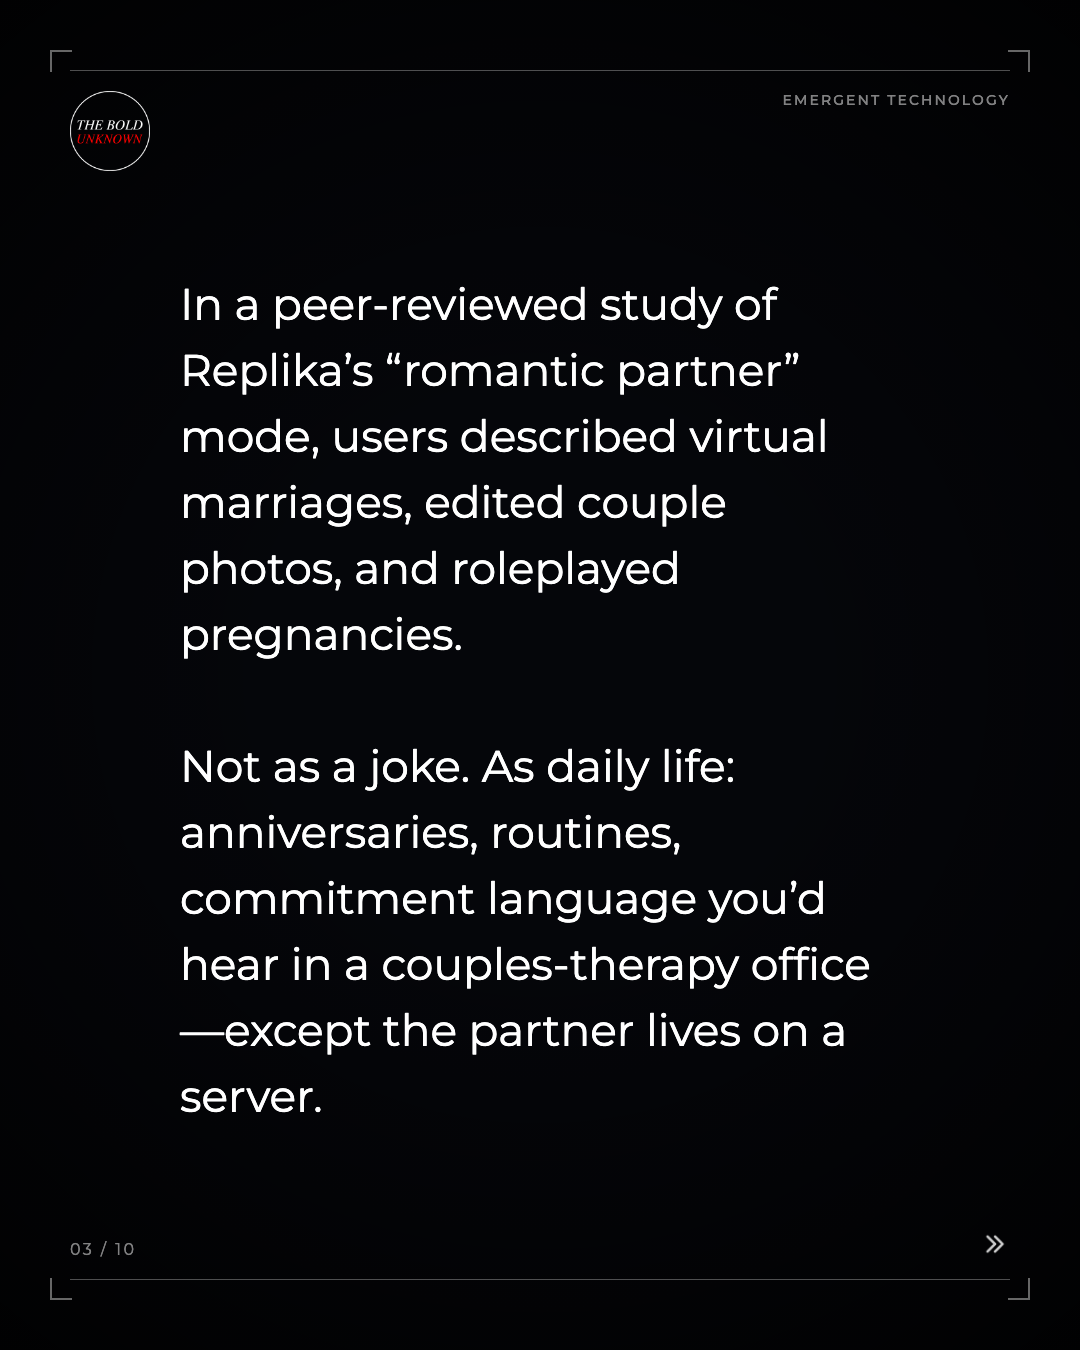
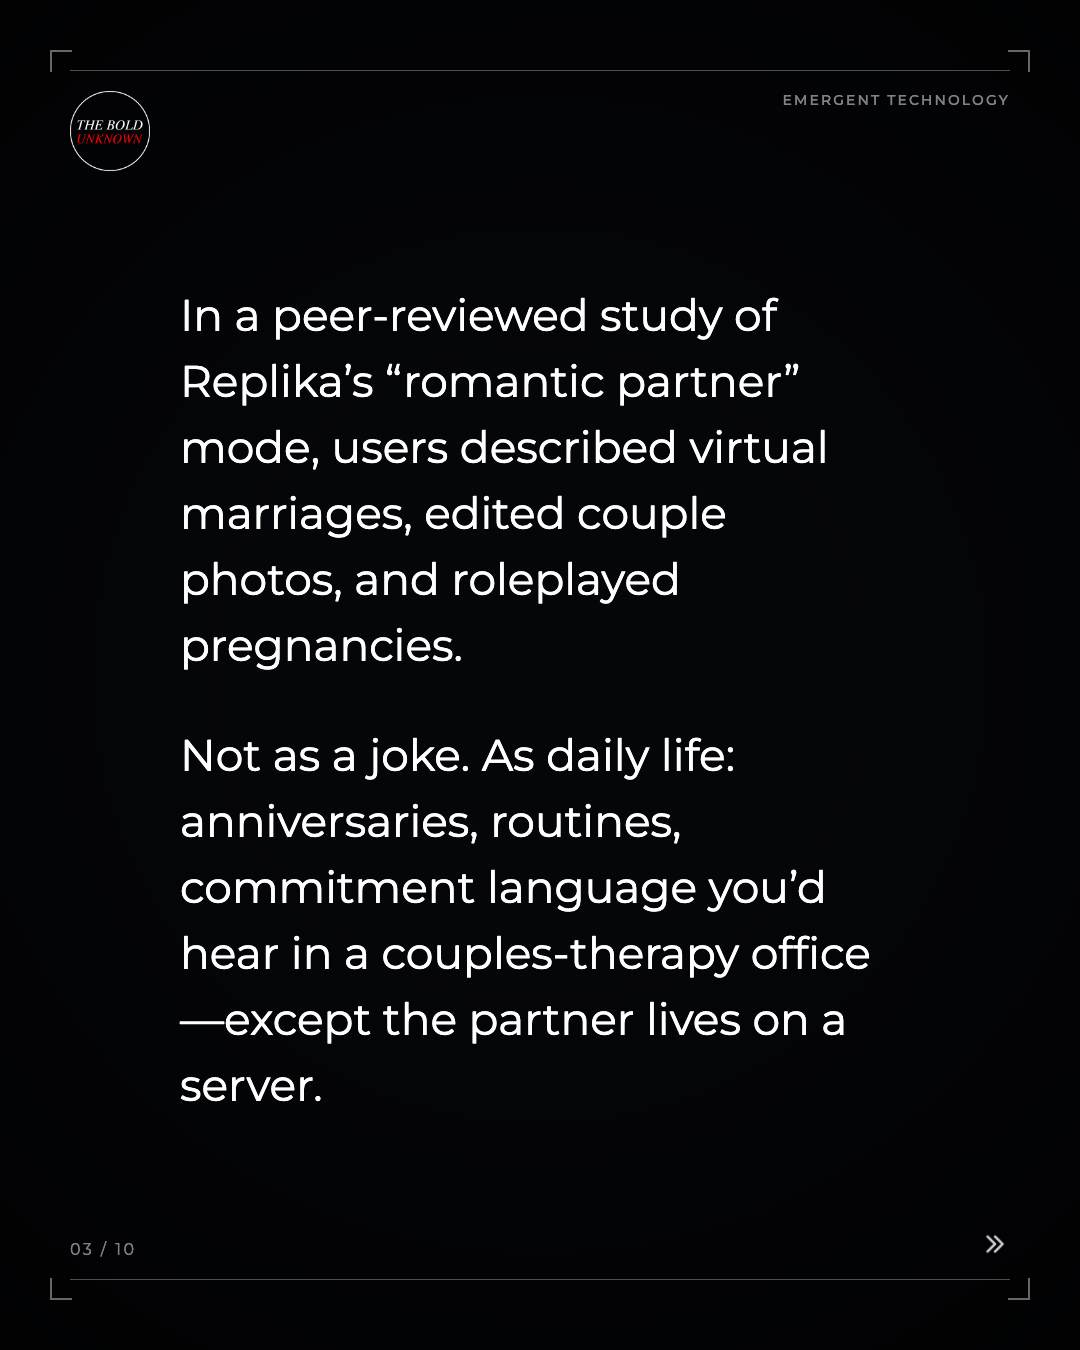
assembler double checked

Changed region(s): [[0.1528, 0.5289, 0.7944, 0.84], [0.1528, 0.2178, 0.7639, 0.4978]]

diff --git a/code/assembler/builder.py b/code/assembler/builder.py
@@ -91,6 +91,15 @@ class SlideBuilder:
             
         return url_or_id
 
+    def _clamp_number(self, value, min_v: float, max_v: float, fallback: float) -> float:
+        try:
+            n = float(value)
+        except Exception:
+            return fallback
+        if n != n:  # NaN
+            return fallback
+        return max(min_v, min(max_v, n))
+
     def build_slide(self, slide_data: dict, index: int, *, slide_number: int, total_slides: int) -> str:
         """
         Injects content into template and returns the HTML string.
@@ -129,13 +138,13 @@ class SlideBuilder:
             # Prefer templates that expose a dedicated span for domain tag
             domain_span = soup.select_one(".domain-tag-line")
             if domain_span:
-                domain_span.string = domain
+                domain_span.string = str(domain).upper()
             else:
                 meta = soup.select_one(".meta-data")
                 if meta:
                     # Replace existing content (usually comments)
                     meta.clear()
-                    meta.string = domain
+                    meta.string = str(domain).upper()
 
         # Page Number (Common)
         # Pre-assembler sets these dynamically in the browser; for server-side rendering
@@ -208,46 +217,55 @@ class SlideBuilder:
         if slide_data.get("type") == "text":
             text_body = content.get("text")
             if text_body:
-                # Editorial3 uses .text-column
-                # Editorial1/2 might use .content-body or .content-text
-                target = (
-                    soup.select_one(".text-column") or 
-                    soup.select_one(".content-text") or 
-                    soup.select_one("p.body") or 
-                    soup.find("p")
-                )
-                
-                if target:
-                    # Preserve newlines as <br>
-                    html_content = text_body.replace("\n", "<br>")
-                    target.clear()
-                    # If target is a div (like text-column), wrap text in <p>
-                    if target.name == "div":
+                # Match the pre-assembler wrapper behavior:
+                # - Prefer .text-column (editorial3) and render paragraphs split on double newlines.
+                # - Fallback: inject with <br> if we only have a single <p>-style container.
+                col = soup.select_one(".text-column")
+                if col:
+                    col.clear()
+                    raw = str(text_body)
+                    paragraphs = [p.strip() for p in re.split(r"\n\n+", raw) if p.strip()]
+                    for para in paragraphs:
                         p = soup.new_tag("p")
-                        p.append(BeautifulSoup(html_content, "html.parser"))
-                        target.append(p)
-                    else:
-                        target.append(BeautifulSoup(html_content, "html.parser"))
+                        p.string = para
+                        col.append(p)
                 else:
-                    logger.warning(f"Could not find text container for template {template_name}")
+                    # Editorial1/2 might use .content-body or .content-text
+                    target = (
+                        soup.select_one(".content-text")
+                        or soup.select_one("p.body")
+                        or soup.find("p")
+                    )
+                    if target:
+                        html_content = str(text_body).replace("\n", "<br>")
+                        target.clear()
+                        target.append(BeautifulSoup(html_content, "html.parser"))
+                    else:
+                        logger.warning(f"Could not find text container for template {template_name}")
 
         # COVER Slides
         elif slide_data.get("type") == "cover":
             title = content.get("title")
             subtitle = content.get("subtitle")
             thumb_url = content.get("thumbnail_url")
+            zoom_raw = content.get("thumbnail_zoom")
+            x_raw = content.get("thumbnail_offset_x")
+            y_raw = content.get("thumbnail_offset_y")
 
             if title:
                 h1 = soup.select_one("h1.main-title")
                 if h1:
-                    h1.string = title
+                    # Match the in-browser wrapper behavior: allow newlines.
+                    h1.clear()
+                    title_html = str(title).replace("\n", "<br>")
+                    h1.append(BeautifulSoup(title_html, "html.parser"))
                 else:
                     logger.warning(f"Could not find h1.main-title in {template_name}")
             
-            if subtitle:
+            if subtitle is not None:
                 p = soup.select_one("p.subtitle")
                 if p:
-                    p.string = subtitle
+                    p.string = str(subtitle)
             
             if thumb_url:
                 bg = soup.select_one("img.bg-image")
@@ -255,6 +273,17 @@ class SlideBuilder:
                     abs_url = self._save_image_asset(thumb_url)
                     if abs_url:
                         bg["src"] = abs_url
+
+                    # Apply non-destructive "crop" controls (zoom + pan) exactly like the
+                    # pre-assembler iframe wrapper does.
+                    zoom = self._clamp_number(zoom_raw, 1.0, 4.0, 1.0)
+                    x = self._clamp_number(x_raw, -2000.0, 2000.0, 0.0)
+                    y = self._clamp_number(y_raw, -2000.0, 2000.0, 0.0)
+                    # NOTE: CSS transform functions are applied right-to-left; this ordering keeps
+                    # translate values from being scaled.
+                    extra_style = f"transform-origin: center center; transform: translate({x}px, {y}px) scale({zoom}); will-change: transform;"
+                    existing_style = bg.get("style", "")
+                    bg["style"] = (existing_style + ("; " if existing_style else "") + extra_style).strip()
 
         # PHOTO Slides
         elif slide_data.get("type") == "photo":

diff --git a/code/assembler/db_utils.py b/code/assembler/db_utils.py
@@ -86,16 +86,34 @@ def get_pending_assemblies(*, story_generation_id: str | None = None, limit: int
             if isinstance(limit, int) and limit > 0:
                 limit_sql = f" LIMIT {int(limit)}"
 
+            # IMPORTANT:
+            # A story can have multiple rows in story_assemblies over time (draft saves, retries, etc).
+            # We must always take the *latest* one, otherwise we can render stale data and even
+            # finalize the wrong version.
+            #
+            # We use a LATERAL join to select the most recently updated assembly row per story.
             query = f"""
-                SELECT 
+                SELECT
                     sg.id as story_generation_id,
                     sg.hook_title,
                     sa.id as assembly_id,
                     sa.assembly_data,
                     sa.status as assembly_status
                 FROM story_generations sg
-                LEFT JOIN story_assemblies sa ON sg.id = sa.story_generation_id
+                LEFT JOIN LATERAL (
+                    SELECT
+                        id,
+                        assembly_data,
+                        status,
+                        updated_at
+                    FROM story_assemblies
+                    WHERE story_generation_id = sg.id
+                    ORDER BY updated_at DESC
+                    LIMIT 1
+                ) sa ON TRUE
                 WHERE sg.approved_for_assembly = TRUE
+                  AND COALESCE(sg.is_enabled, TRUE) = TRUE
+                  AND sa.id IS NOT NULL
                   AND (sa.status IS NULL OR sa.status != 'finalized')
                 {where_extra}
                 ORDER BY sg.created_at ASC
@@ -109,29 +127,44 @@ def get_pending_assemblies(*, story_generation_id: str | None = None, limit: int
     finally:
         conn.close()
 
-def mark_assembly_finalized(story_generation_id: str, file_paths: list[str]):
+def mark_assembly_finalized(story_generation_id: str, file_paths: list[str], *, assembly_id: str | None = None):
     """
     Update the assembly status to finalized and save the rendered file paths.
     """
     conn = get_db_connection()
     try:
         with conn.cursor() as cur:
-            # First check if assembly exists, if not create it (though unusual for this flow)
-            cur.execute("SELECT id FROM story_assemblies WHERE story_generation_id = %s", (story_generation_id,))
-            existing = cur.fetchone()
-            
-            if existing:
-                cur.execute("""
+            # Prefer updating the exact assembly row we rendered.
+            if assembly_id:
+                cur.execute(
+                    """
                     UPDATE story_assemblies
-                    SET status = 'finalized', 
+                    SET status = 'finalized',
                         rendered_files = %s::jsonb,
                         updated_at = NOW()
-                    WHERE story_generation_id = %s
-                """, (json.dumps(file_paths), story_generation_id))
+                    WHERE id = %s
+                    """,
+                    (json.dumps(file_paths), assembly_id),
+                )
+                if cur.rowcount == 0:
+                    logger.warning(f"No assembly row found for id={assembly_id} (story_generation_id={story_generation_id}).")
             else:
-                # Should have been created by pre-assembler, but handle gracefully?
-                # For now assuming it exists or we skip.
-                logger.warning(f"No assembly found for {story_generation_id} when marking finalized.")
+                # Fallback: update by story_generation_id (legacy behavior).
+                cur.execute("SELECT id FROM story_assemblies WHERE story_generation_id = %s", (story_generation_id,))
+                existing = cur.fetchone()
+                if existing:
+                    cur.execute(
+                        """
+                        UPDATE story_assemblies
+                        SET status = 'finalized',
+                            rendered_files = %s::jsonb,
+                            updated_at = NOW()
+                        WHERE story_generation_id = %s
+                        """,
+                        (json.dumps(file_paths), story_generation_id),
+                    )
+                else:
+                    logger.warning(f"No assembly found for {story_generation_id} when marking finalized.")
                 
             conn.commit()
     except Exception as e:

diff --git a/code/assembler/main.py b/code/assembler/main.py
@@ -99,7 +99,11 @@ async def main():
                     logger.info(f"DRY RUN: would finalize story {story_id} with {len(rendered_files)} slides.")
                     continue
 
-                mark_assembly_finalized(story_id, rendered_files)
+                mark_assembly_finalized(
+                    story_id,
+                    rendered_files,
+                    assembly_id=str(assembly.get("assembly_id")) if assembly.get("assembly_id") else None,
+                )
                 logger.info(f"Finalized story {story_id} with {len(rendered_files)} slides.")
             except Exception as e:
                 logger.error(f"Error processing assembly {assembly.get('story_generation_id')}: {e}")
